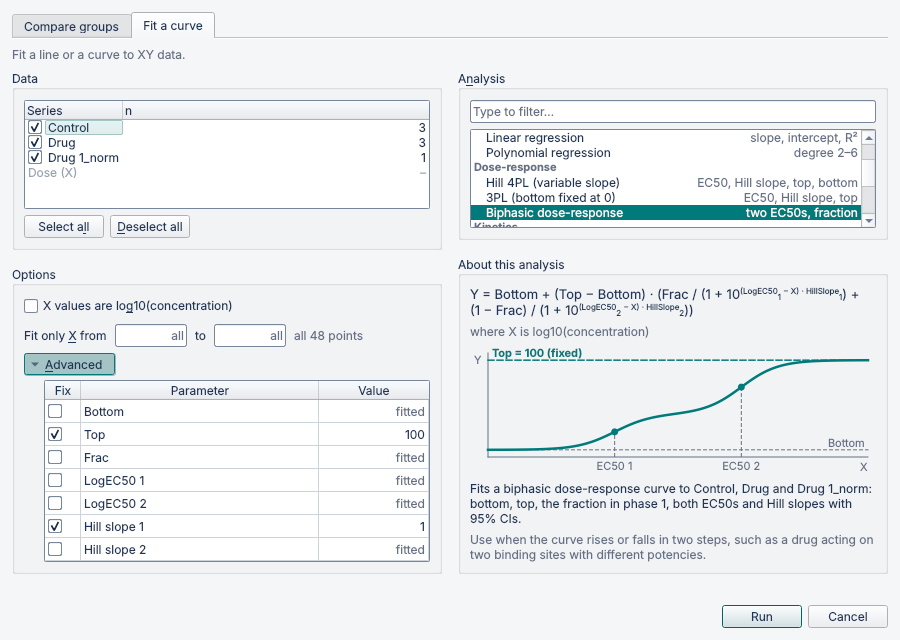
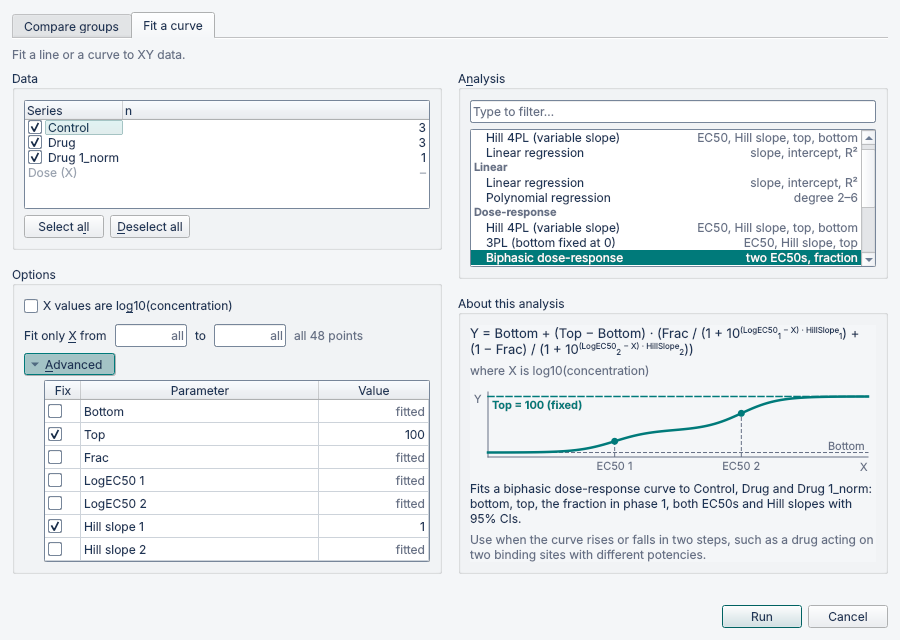
Let About this analysis scroll when its text doesn't fit
On macOS the wider font made the biphasic equation and the bell-shaped
summary taller than the right column has at the minimum dialog size, so
test_dialog_design found them cut off. The About contents now sit in a
frameless scroll area. Its height-for-width counts the sketch at its
smallest, so it scrolls only when even that doesn't fit, and any room
left over goes to the sketch. Screenshots refreshed.

Claude-Session: https://claude.ai/code/session_01CFpmBUcm8q6q7gZz5HVVFG

diff --git a/src/curvis/ui/analyze_dialog.py b/src/curvis/ui/analyze_dialog.py
@@ -33,12 +33,14 @@ from PySide6.QtWidgets import (
     QComboBox,
     QDialog,
     QDoubleSpinBox,
+    QFrame,
     QGroupBox,
     QHBoxLayout,
     QHeaderView,
     QLabel,
     QLineEdit,
     QPushButton,
+    QScrollArea,
     QSizePolicy,
     QSpinBox,
     QTreeWidget,
@@ -335,6 +337,31 @@ class ParamsForm(QWidget):
         return widgets
 
 
+class _AboutContent(QWidget):
+    """The inside of *About this analysis*. It asks the scroll area for the height its
+    text needs with the sketch at its smallest, so it scrolls only when even that
+    doesn't fit; any room left over goes to the sketch."""
+
+    def heightForWidth(self, width: int) -> int:  # noqa: N802 (Qt API)
+        layout = self.layout()
+        if layout is None:
+            return super().heightForWidth(width)
+        margins = layout.contentsMargins()
+        inner = width - margins.left() - margins.right()
+        heights = []
+        for i in range(layout.count()):
+            item = layout.itemAt(i)
+            widget = item.widget() if item is not None else None
+            if widget is None or widget.isHidden():
+                continue
+            if widget.hasHeightForWidth():
+                heights.append(widget.heightForWidth(inner))
+            else:
+                heights.append(max(widget.minimumHeight(), widget.minimumSizeHint().height()))
+        spacing = layout.spacing() * max(len(heights) - 1, 0)
+        return sum(heights) + spacing + margins.top() + margins.bottom()
+
+
 class AnalysisList(QTreeWidget):
     """The analyses of a family, in sections; about :data:`LIST_ROWS` rows high."""
 
@@ -498,7 +525,19 @@ class AnalyzeDialog(QDialog):
 
     def _build_about(self) -> QGroupBox:
         box = QGroupBox("About this analysis")
-        layout = QVBoxLayout(box)
+        # The text scrolls when it doesn't fit: long equations and wide fonts (macOS)
+        # need more height than the right column has at the minimum size.
+        self.about_scroll = QScrollArea()
+        self.about_scroll.setFrameShape(QFrame.Shape.NoFrame)
+        self.about_scroll.setWidgetResizable(True)
+        self.about_scroll.setHorizontalScrollBarPolicy(Qt.ScrollBarPolicy.ScrollBarAlwaysOff)
+        self.about_scroll.setAccessibleName("About this analysis")
+        self.about_scroll.viewport().setAutoFillBackground(False)
+        content = _AboutContent()
+        self.about_scroll.setWidget(content)
+        QVBoxLayout(box).addWidget(self.about_scroll)
+        layout = QVBoxLayout(content)
+        layout.setContentsMargins(0, 0, 0, 0)
         selectable = Qt.TextInteractionFlag.TextSelectableByMouse
 
         def label(secondary: bool = False) -> QLabel:
